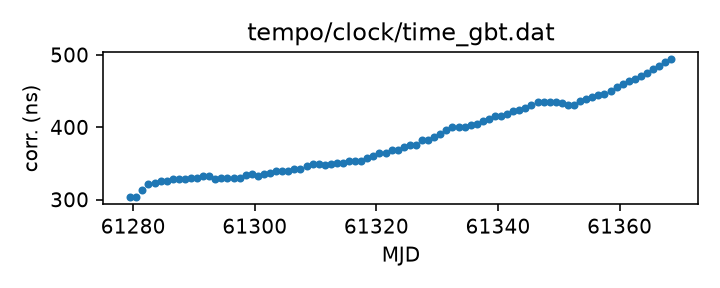
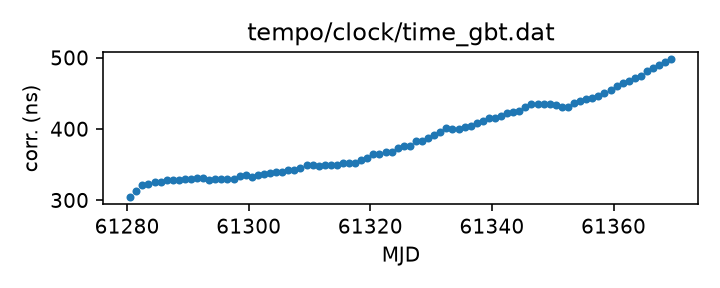
Routine gh-pages update from Github action Fri Nov 27 03:02:38 UTC 2026

diff --git a/status.md b/status.md
@@ -13,18 +13,18 @@ name of each clock file links to a page with more details.
 
 | Name | File | Corrections start | Corrections end | Last check date | Last check result 
 |:--- |:--- | --- | --- | --- |:--- 
-| [GPS to UTC](T2runtime/clock/gps2utc.clk.html) | `T2runtime/clock/gps2utc.clk` | 1993-01-01 MJD 48988.0 | 2026-10-31 MJD 61344.0 | 2026-11-26 | Unchanged 
-| [GPS to UTC (Combined Clock)](T2runtime/clock/gps2utc_cc.clk.html) | `T2runtime/clock/gps2utc_cc.clk` | 1993-01-01 MJD 48988.0 | 2026-10-31 MJD 61344.0 | 2026-11-26 | Unchanged 
-| [GPS to UTC (Corrected)](T2runtime/clock/gps2utc_c0p.clk.html) | `T2runtime/clock/gps2utc_c0p.clk` | 2010-12-29 MJD 55559.0 | 2026-10-31 MJD 61344.0 | 2026-11-26 | Unchanged 
-| [GBT](tempo/clock/time_gbt.dat.html) | `tempo/clock/time_gbt.dat` | 2000-12-31 MJD 51909.5 | 2026-11-24 MJD 61368.5 | 2026-11-26 | Updated 
-| [GBT (TEMPO2 converted from TEMPO)](T2runtime/clock/gbt2gps.clk.html) | `T2runtime/clock/gbt2gps.clk` | 2000-12-31 MJD 51909.5 | 2024-05-18 MJD 60448.5 | 2026-11-26 | **Validation failed** 
+| [GPS to UTC](T2runtime/clock/gps2utc.clk.html) | `T2runtime/clock/gps2utc.clk` | 1993-01-01 MJD 48988.0 | 2026-10-31 MJD 61344.0 | 2026-11-27 | Unchanged 
+| [GPS to UTC (Combined Clock)](T2runtime/clock/gps2utc_cc.clk.html) | `T2runtime/clock/gps2utc_cc.clk` | 1993-01-01 MJD 48988.0 | 2026-10-31 MJD 61344.0 | 2026-11-27 | Unchanged 
+| [GPS to UTC (Corrected)](T2runtime/clock/gps2utc_c0p.clk.html) | `T2runtime/clock/gps2utc_c0p.clk` | 2010-12-29 MJD 55559.0 | 2026-10-31 MJD 61344.0 | 2026-11-27 | Unchanged 
+| [GBT](tempo/clock/time_gbt.dat.html) | `tempo/clock/time_gbt.dat` | 2000-12-31 MJD 51909.5 | 2026-11-25 MJD 61369.5 | 2026-11-27 | Updated 
+| [GBT (TEMPO2 converted from TEMPO)](T2runtime/clock/gbt2gps.clk.html) | `T2runtime/clock/gbt2gps.clk` | 2000-12-31 MJD 51909.5 | 2024-05-18 MJD 60448.5 | 2026-11-27 | **Validation failed** 
 | [Jodrell Bank](T2runtime/clock/jb2gps.clk.html) | `T2runtime/clock/jb2gps.clk` | 2006-10-13 MJD 54021.4 | 2026-04-17 MJD 61147.0 | 2026-11-25 | Unchanged 
 | [Jodrell Bank Roach](T2runtime/clock/jbroach2jb.clk.html) | `T2runtime/clock/jbroach2jb.clk` | 2006-10-13 MJD 54021.4 | 2018-03-20 MJD 58197.6 | 2026-11-23 | Unchanged 
 | [Jodrell Bank DFB](T2runtime/clock/jbdfb2jb.clk.html) | `T2runtime/clock/jbdfb2jb.clk` | 2006-10-13 MJD 54021.4 | 2021-02-22 MJD 59268.0 | 2026-11-23 | Unchanged 
 | [Meerkat (observatory)](T2runtime/clock/mk2utc_observatory.clk.html) | `T2runtime/clock/mk2utc_observatory.clk` | 2019-01-01 MJD 58484.0 | 2026-04-10 MJD 61141.0 | 2026-11-23 | **Validation failed** 
-| [Leap seconds](tempo/clock/leap.sec.html) | `tempo/clock/leap.sec` | 1972-07-01 MJD 41499.0 | 2017-01-01 MJD 57754.0 | 2026-11-26 | Unchanged 
-| [UT1 table](tempo/clock/ut1.dat.html) | `tempo/clock/ut1.dat` | 1973-01-02 MJD 41684.0 | 2027-11-19 MJD 61728.0 | 2026-11-26 | Unchanged 
-| [UT1 table](T2runtime/clock/ut1.dat.html) | `T2runtime/clock/ut1.dat` | 1973-01-02 MJD 41684.0 | 2027-11-19 MJD 61728.0 | 2026-11-26 | Unchanged 
+| [Leap seconds](tempo/clock/leap.sec.html) | `tempo/clock/leap.sec` | 1972-07-01 MJD 41499.0 | 2017-01-01 MJD 57754.0 | 2026-11-27 | Unchanged 
+| [UT1 table](tempo/clock/ut1.dat.html) | `tempo/clock/ut1.dat` | 1973-01-02 MJD 41684.0 | 2027-11-19 MJD 61728.0 | 2026-11-27 | Unchanged 
+| [UT1 table](T2runtime/clock/ut1.dat.html) | `T2runtime/clock/ut1.dat` | 1973-01-02 MJD 41684.0 | 2027-11-19 MJD 61728.0 | 2026-11-27 | Unchanged 
 
 
 

diff --git a/T2runtime/clock/gbt2gps.clk.md b/T2runtime/clock/gbt2gps.clk.md
@@ -25,12 +25,11 @@ If questions arise about the conversion, contact Anne Archibald
 | Clock file start | 2000-12-31 MJD 51909.5 |
 | Clock file end | 2024-05-18 MJD 60448.5 |
 | Update interval (days) | 1 |
-| Last update attempt | 2026-11-26 |
+| Last update attempt | 2026-11-27 |
 | Last update result | Validation failed |
 
 Log entries from the last few update attempts:
 ```
-2026-11-17 03:03:50.228 - Validation failed: New version of T2runtime/clock/gbt2gps.clk MJDs differ from old version where they overlap in 8407 places
 2026-11-18 02:32:23.358 - Validation failed: New version of T2runtime/clock/gbt2gps.clk MJDs differ from old version where they overlap in 8407 places
 2026-11-19 01:59:20.900 - Validation failed: New version of T2runtime/clock/gbt2gps.clk MJDs differ from old version where they overlap in 8407 places
 2026-11-20 01:52:21.843 - Validation failed: New version of T2runtime/clock/gbt2gps.clk MJDs differ from old version where they overlap in 8407 places
@@ -40,6 +39,7 @@ Log entries from the last few update attempts:
 2026-11-24 04:56:09.079 - Validation failed: New version of T2runtime/clock/gbt2gps.clk MJDs differ from old version where they overlap in 8407 places
 2026-11-25 03:36:05.893 - Validation failed: New version of T2runtime/clock/gbt2gps.clk MJDs differ from old version where they overlap in 8407 places
 2026-11-26 02:59:29.157 - Validation failed: New version of T2runtime/clock/gbt2gps.clk MJDs differ from old version where they overlap in 8407 places
+2026-11-27 03:02:25.403 - Validation failed: New version of T2runtime/clock/gbt2gps.clk MJDs differ from old version where they overlap in 8407 places
 ```
 [Full log](https://raw.githubusercontent.com/ipta/pulsar-clock-corrections/main/log/T2runtime/clock/gbt2gps.clk.log)
 

diff --git a/tempo/clock/time_gbt.dat.md b/tempo/clock/time_gbt.dat.md
@@ -36,14 +36,13 @@ If questions arise, contact Ryan S. Lynch <rlynch@nrao.edu>.
 | Format | tempo |
 | Bogus last correction | False |
 | Clock file start | 2000-12-31 MJD 51909.5 |
-| Clock file end | 2026-11-24 MJD 61368.5 |
+| Clock file end | 2026-11-25 MJD 61369.5 |
 | Update interval (days) | 1 |
-| Last update attempt | 2026-11-26 |
+| Last update attempt | 2026-11-27 |
 | Last update result | Updated |
 
 Log entries from the last few update attempts:
 ```
-2026-11-14 01:00:18.748 - Updated
 2026-11-16 00:05:56.557 - Updated
 2026-11-17 03:03:50.184 - Updated
 2026-11-18 02:32:23.320 - Updated
@@ -53,12 +52,13 @@ Log entries from the last few update attempts:
 2026-11-23 01:02:23.301 - Updated
 2026-11-24 04:56:08.987 - Updated
 2026-11-26 02:59:29.117 - Updated
+2026-11-27 03:02:25.346 - Updated
 ```
 [Full log](https://raw.githubusercontent.com/ipta/pulsar-clock-corrections/main/log/tempo/clock/time_gbt.dat.log)
 
 Leading comments from clock file:
 
-     -2740.50       0.0        -0.503 1    32767-dec
+     -2740.50       0.0        -0.503 1    32766-dec
      -2612.50       0.0        -0.503 1    00-dec-00
 
 

diff --git a/T2runtime/clock/gps2utc_c0p.clk.md b/T2runtime/clock/gps2utc_c0p.clk.md
@@ -30,12 +30,11 @@ about the BIPM's published corrections, contact <tai@bipm.org>.
 | Clock file start | 2010-12-29 MJD 55559.0 |
 | Clock file end | 2026-10-31 MJD 61344.0 |
 | Update interval (days) | 1 |
-| Last update attempt | 2026-11-26 |
+| Last update attempt | 2026-11-27 |
 | Last update result | Unchanged |
 
 Log entries from the last few update attempts:
 ```
-2026-11-14 01:00:17.762 - Updated
 2026-11-16 00:05:56.113 - Unchanged
 2026-11-17 03:03:49.598 - Unchanged
 2026-11-18 02:32:20.622 - Unchanged
@@ -45,6 +44,7 @@ Log entries from the last few update attempts:
 2026-11-23 01:02:22.477 - Unchanged
 2026-11-24 04:56:07.952 - Unchanged
 2026-11-26 02:59:28.417 - Unchanged
+2026-11-27 03:02:25.144 - Unchanged
 ```
 [Full log](https://raw.githubusercontent.com/ipta/pulsar-clock-corrections/main/log/T2runtime/clock/gps2utc_c0p.clk.log)
 

diff --git a/T2runtime/clock/gps2utc_cc.clk.md b/T2runtime/clock/gps2utc_cc.clk.md
@@ -29,12 +29,11 @@ about the BIPM's published corrections, contact <tai@bipm.org>.
 | Clock file start | 1993-01-01 MJD 48988.0 |
 | Clock file end | 2026-10-31 MJD 61344.0 |
 | Update interval (days) | 1 |
-| Last update attempt | 2026-11-26 |
+| Last update attempt | 2026-11-27 |
 | Last update result | Unchanged |
 
 Log entries from the last few update attempts:
 ```
-2026-11-14 01:00:17.734 - Updated
 2026-11-16 00:05:56.104 - Unchanged
 2026-11-17 03:03:49.593 - Unchanged
 2026-11-18 02:32:20.618 - Unchanged
@@ -44,6 +43,7 @@ Log entries from the last few update attempts:
 2026-11-23 01:02:22.469 - Unchanged
 2026-11-24 04:56:07.943 - Unchanged
 2026-11-26 02:59:28.413 - Unchanged
+2026-11-27 03:02:25.138 - Unchanged
 ```
 [Full log](https://raw.githubusercontent.com/ipta/pulsar-clock-corrections/main/log/T2runtime/clock/gps2utc_cc.clk.log)
 

diff --git a/T2runtime/clock/gps2utc.clk.md b/T2runtime/clock/gps2utc.clk.md
@@ -32,12 +32,11 @@ about the BIPM's published corrections, contact <tai@bipm.org>.
 | Clock file start | 1993-01-01 MJD 48988.0 |
 | Clock file end | 2026-10-31 MJD 61344.0 |
 | Update interval (days) | 1 |
-| Last update attempt | 2026-11-26 |
+| Last update attempt | 2026-11-27 |
 | Last update result | Unchanged |
 
 Log entries from the last few update attempts:
 ```
-2026-11-14 01:00:17.675 - Updated
 2026-11-16 00:05:56.081 - Unchanged
 2026-11-17 03:03:49.580 - Unchanged
 2026-11-18 02:32:20.606 - Unchanged
@@ -47,6 +46,7 @@ Log entries from the last few update attempts:
 2026-11-23 01:02:22.448 - Unchanged
 2026-11-24 04:56:07.921 - Unchanged
 2026-11-26 02:59:28.400 - Unchanged
+2026-11-27 03:02:25.123 - Unchanged
 ```
 [Full log](https://raw.githubusercontent.com/ipta/pulsar-clock-corrections/main/log/T2runtime/clock/gps2utc.clk.log)
 

diff --git a/tempo/clock/leap.sec.md b/tempo/clock/leap.sec.md
@@ -21,12 +21,11 @@ If there are any questions, contact Anne Archibald
 | File start | 1972-07-01 MJD 41499.0 |
 | File end | 2017-01-01 MJD 57754.0 |
 | Update interval (days) | 0 |
-| Last update attempt | 2026-11-26 |
+| Last update attempt | 2026-11-27 |
 | Last update result | Unchanged |
 
 Log entries from the last few update attempts:
 ```
-2026-11-17 03:03:50.240 - Unchanged
 2026-11-18 02:32:24.240 - Unchanged
 2026-11-19 01:59:20.916 - Unchanged
 2026-11-20 01:52:21.855 - Unchanged
@@ -36,5 +35,6 @@ Log entries from the last few update attempts:
 2026-11-24 04:56:09.104 - Unchanged
 2026-11-25 03:36:07.081 - Unchanged
 2026-11-26 02:59:29.168 - Unchanged
+2026-11-27 03:02:25.419 - Unchanged
 ```
 [Full log](https://raw.githubusercontent.com/ipta/pulsar-clock-corrections/main/log/tempo/clock/leap.sec.log)

diff --git a/T2runtime/clock/ut1.dat.md b/T2runtime/clock/ut1.dat.md
@@ -30,12 +30,11 @@ If there are any questions, contact Anne Archibald
 | File start | 1973-01-02 MJD 41684.0 |
 | File end | 2027-11-19 MJD 61728.0 |
 | Update interval (days) | 0 |
-| Last update attempt | 2026-11-26 |
+| Last update attempt | 2026-11-27 |
 | Last update result | Unchanged |
 
 Log entries from the last few update attempts:
 ```
-2026-11-17 03:03:50.693 - Updated
 2026-11-18 02:32:24.580 - Unchanged
 2026-11-19 01:59:21.371 - Unchanged
 2026-11-20 01:52:22.377 - Unchanged
@@ -45,5 +44,6 @@ Log entries from the last few update attempts:
 2026-11-24 04:56:09.684 - Updated
 2026-11-25 03:36:07.678 - Unchanged
 2026-11-26 02:59:29.583 - Unchanged
+2026-11-27 03:02:25.790 - Unchanged
 ```
 [Full log](https://raw.githubusercontent.com/ipta/pulsar-clock-corrections/main/log/T2runtime/clock/ut1.dat.log)

diff --git a/tempo/clock/ut1.dat.md b/tempo/clock/ut1.dat.md
@@ -30,12 +30,11 @@ If there are any questions, contact Anne Archibald
 | File start | 1973-01-02 MJD 41684.0 |
 | File end | 2027-11-19 MJD 61728.0 |
 | Update interval (days) | 0 |
-| Last update attempt | 2026-11-26 |
+| Last update attempt | 2026-11-27 |
 | Last update result | Unchanged |
 
 Log entries from the last few update attempts:
 ```
-2026-11-17 03:03:50.666 - Updated
 2026-11-18 02:32:24.558 - Unchanged
 2026-11-19 01:59:21.338 - Unchanged
 2026-11-20 01:52:22.352 - Unchanged
@@ -45,5 +44,6 @@ Log entries from the last few update attempts:
 2026-11-24 04:56:09.634 - Updated
 2026-11-25 03:36:07.629 - Unchanged
 2026-11-26 02:59:29.560 - Unchanged
+2026-11-27 03:02:25.758 - Unchanged
 ```
 [Full log](https://raw.githubusercontent.com/ipta/pulsar-clock-corrections/main/log/tempo/clock/ut1.dat.log)
